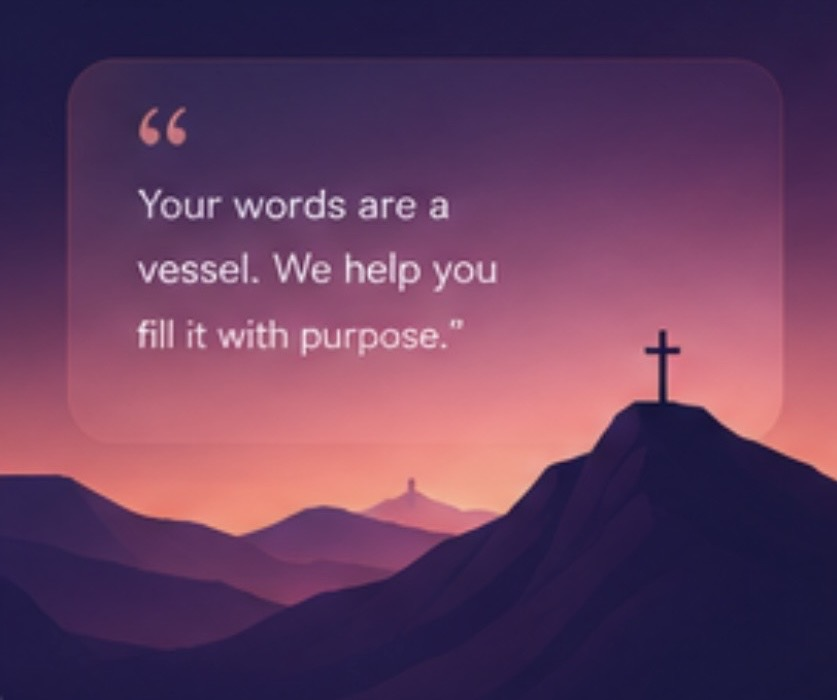
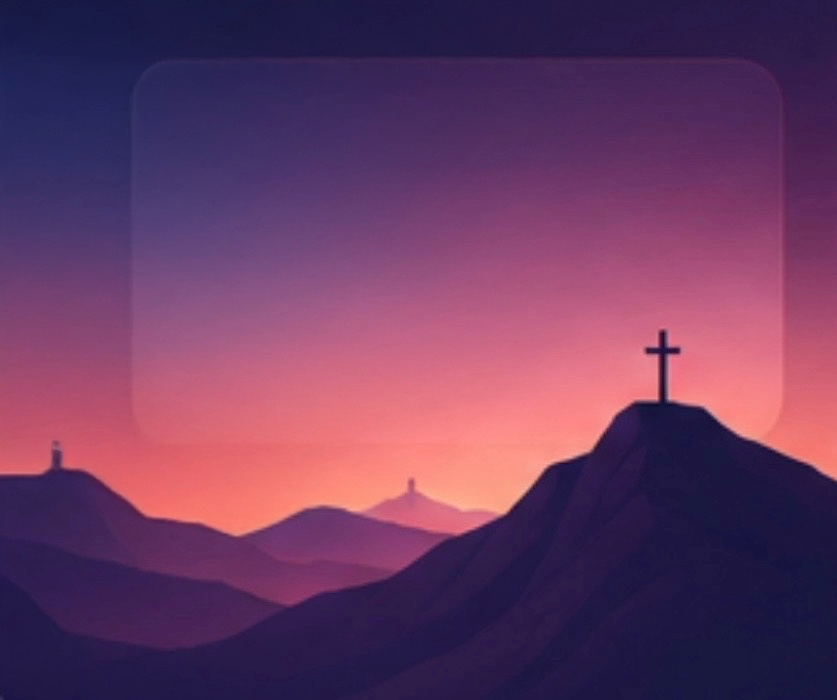
Align inspiration verses inside glass panel on new artwork.
Use updated background image and position rotating verse copy within the frosted card area.

diff --git a/src/components/layout/InspirationCard.tsx b/src/components/layout/InspirationCard.tsx
@@ -1,5 +1,6 @@
 "use client";
 
+import Image from "next/image";
 import { useCallback, useEffect, useState } from "react";
 
 const verses = [
@@ -37,18 +38,20 @@ export default function InspirationCard() {
   }, [rotate]);
 
   return (
-    <div
-      className="relative min-h-[220px] overflow-hidden rounded-[28px] bg-cover bg-bottom text-white"
-      style={{
-        backgroundImage: "url('/images/inspiration-bg.png')",
-      }}
-    >
-      {/* Masks baked-in quote/text from the image */}
-      <div className="absolute inset-x-0 top-0 h-[46%] bg-gradient-to-b from-[#4A3568]/95 via-[#5E4070]/88 to-transparent backdrop-blur-[3px]" />
+    <div className="relative h-[232px] w-full overflow-hidden rounded-[28px]">
+      <Image
+        src="/images/inspiration-bg.png"
+        alt=""
+        fill
+        className="object-cover object-center"
+        sizes="232px"
+        priority
+      />
 
-      <div className="absolute left-5 right-5 top-5 z-10 flex min-h-[88px] items-center">
+      {/* Verse area aligned to the glass panel in the artwork */}
+      <div className="absolute inset-x-[14px] top-[14px] flex h-[118px] items-center px-[10px]">
         <p
-          className={`max-w-[200px] text-[16px] font-medium leading-[1.65] text-white/95 transition-all duration-500 ${
+          className={`text-[13.5px] font-medium leading-[1.55] text-white/95 drop-shadow-[0_1px_8px_rgba(0,0,0,0.35)] transition-all duration-500 ${
             visible ? "translate-y-0 opacity-100" : "translate-y-1 opacity-0"
           }`}
         >